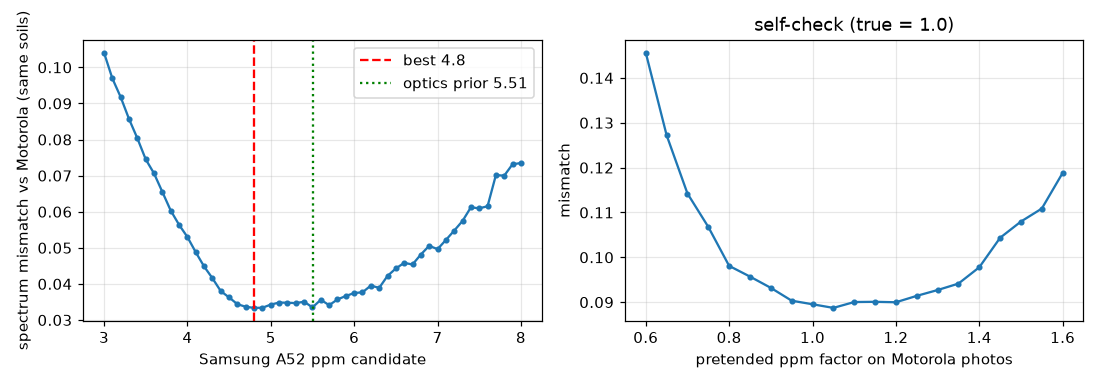
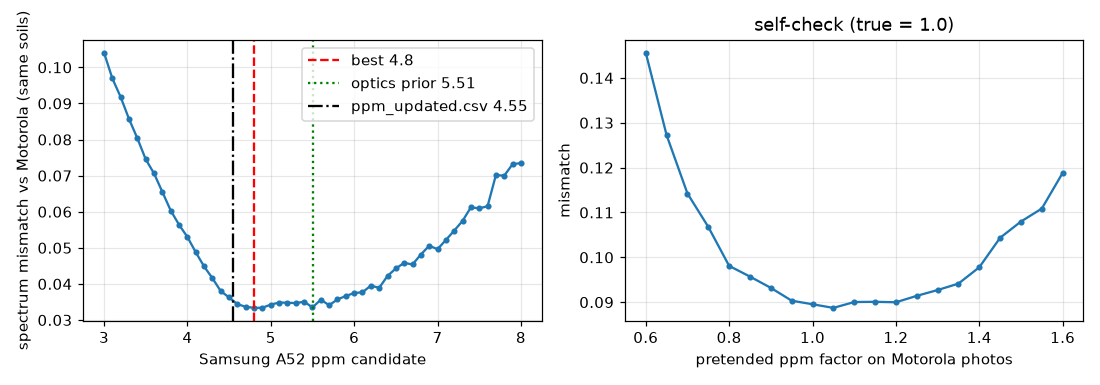
Use the Samsung ppm from ppm_updated.csv; calibration kept as a label-free check

Changed region(s): [[0.2782, 0.1247, 0.4945, 0.3429]]

diff --git a/assignment-1/scripts/calibrate.py b/assignment-1/scripts/calibrate.py
@@ -1,4 +1,4 @@
-"""Label-free estimate of the pixels-per-mm of a camera missing from ppm_updated.csv (Samsung A52).
+"""Label-free check of a camera's pixels-per-mm (Samsung A52) against ppm_updated.csv.
 
 Almost every training soil was photographed with both the Motorola Edge (known ppm) and the Samsung A52, from the
 same 21 cm. The same soil at the right scale must have the same texture spectrum in cycles per mm. For a candidate
@@ -64,6 +64,7 @@ def main() -> None:
     ref_cam, new_cam = "motorolaedge", "samsunga52"
     moto = photos[photos.camera == ref_cam]
     sams = photos[photos.camera == new_cam]
+    official = float(sams.ppm.iloc[0])  # ppm_updated.csv scaled to the stored photo size
     ref = sample_spectra(moto)
     grid = np.round(np.arange(3.0, 8.01, 0.1), 2)
     curve = [mismatch(ref, sample_spectra(sams.assign(ppm=s))) for s in grid]
@@ -78,7 +79,7 @@ def main() -> None:
     res = {"camera": "Samsung A52", "estimated_ppm": best, "grid": grid.tolist(), "mismatch": curve,
            "self_check_scale_grid": check_grid.tolist(), "self_check_mismatch": check,
            "self_check_best": float(check_grid[int(np.argmin(check))]),
-           "optics_prior_ppm": round(1599 / 290.0, 2),
+           "optics_prior_ppm": round(1599 / 290.0, 2), "table_ppm": round(official, 3),
            "n_pairs": len(set(ref) & set(sams.sample_id))}
     out = ROOT / "results/calibration"
     out.mkdir(parents=True, exist_ok=True)
@@ -87,6 +88,7 @@ def main() -> None:
     ax[0].plot(grid, curve, "o-", ms=3)
     ax[0].axvline(best, color="r", ls="--", label=f"best {best}")
     ax[0].axvline(res["optics_prior_ppm"], color="g", ls=":", label=f"optics prior {res['optics_prior_ppm']}")
+    ax[0].axvline(official, color="k", ls="-.", label=f"ppm_updated.csv {official:.2f}")
     ax[0].set(xlabel="Samsung A52 ppm candidate", ylabel="spectrum mismatch vs Motorola (same soils)")
     ax[0].legend()
     ax[1].plot(check_grid, check, "o-", ms=3)

diff --git a/assignment-1/HYPOTHESES.md b/assignment-1/HYPOTHESES.md
@@ -6,9 +6,11 @@ added after the results (see the git history of this file).
 ## Block 0: data, metric, validation, tiles
 
 What the data turned out to be (before any model was trained): 24 training soils, 127 photos from a Motorola Edge
-(69 photos, stored at 1600 px, i.e. 4.6 px/mm), a Samsung A52 (55 photos, no ppm given) and a Motorola Edge 60
-fusion (3 photos, 12.5 px/mm). 10 test soils, 35 photos, only iPhone 14 / 16 at 13.9 / 19.5 px/mm. All photos are
-taken from 21 cm (host, forum). The Samsung ppm is estimated without labels at 5.0 px/mm (`scripts/calibrate.py`).
+(69 photos, stored at 1600 px instead of 4000, i.e. 4.60 px/mm), a Samsung A52 (55 photos, stored at 1599 px instead
+of 9248, i.e. 4.55 px/mm) and a Motorola Edge 60 fusion (3 photos, 12.5 px/mm). 10 test soils, 35 photos, only
+iPhone 14 / 16 at 13.9 / 19.5 px/mm. All photos are taken from 21 cm (host, forum). A label-free check of the
+Samsung scale (texture spectra matched to the Motorola photos of the same soils, `scripts/calibrate.py`) gives
+4.8 px/mm, +5% from the table value; the same method is +5% on a Motorola-vs-Motorola self-check.
 Everything is resampled to the training density, 4.67 px/mm (0.21 mm per pixel). Tiles are 48 mm x 48 mm = 224 px.
 Validation uses 6 group folds over physical samples, stratified by D50.
 
